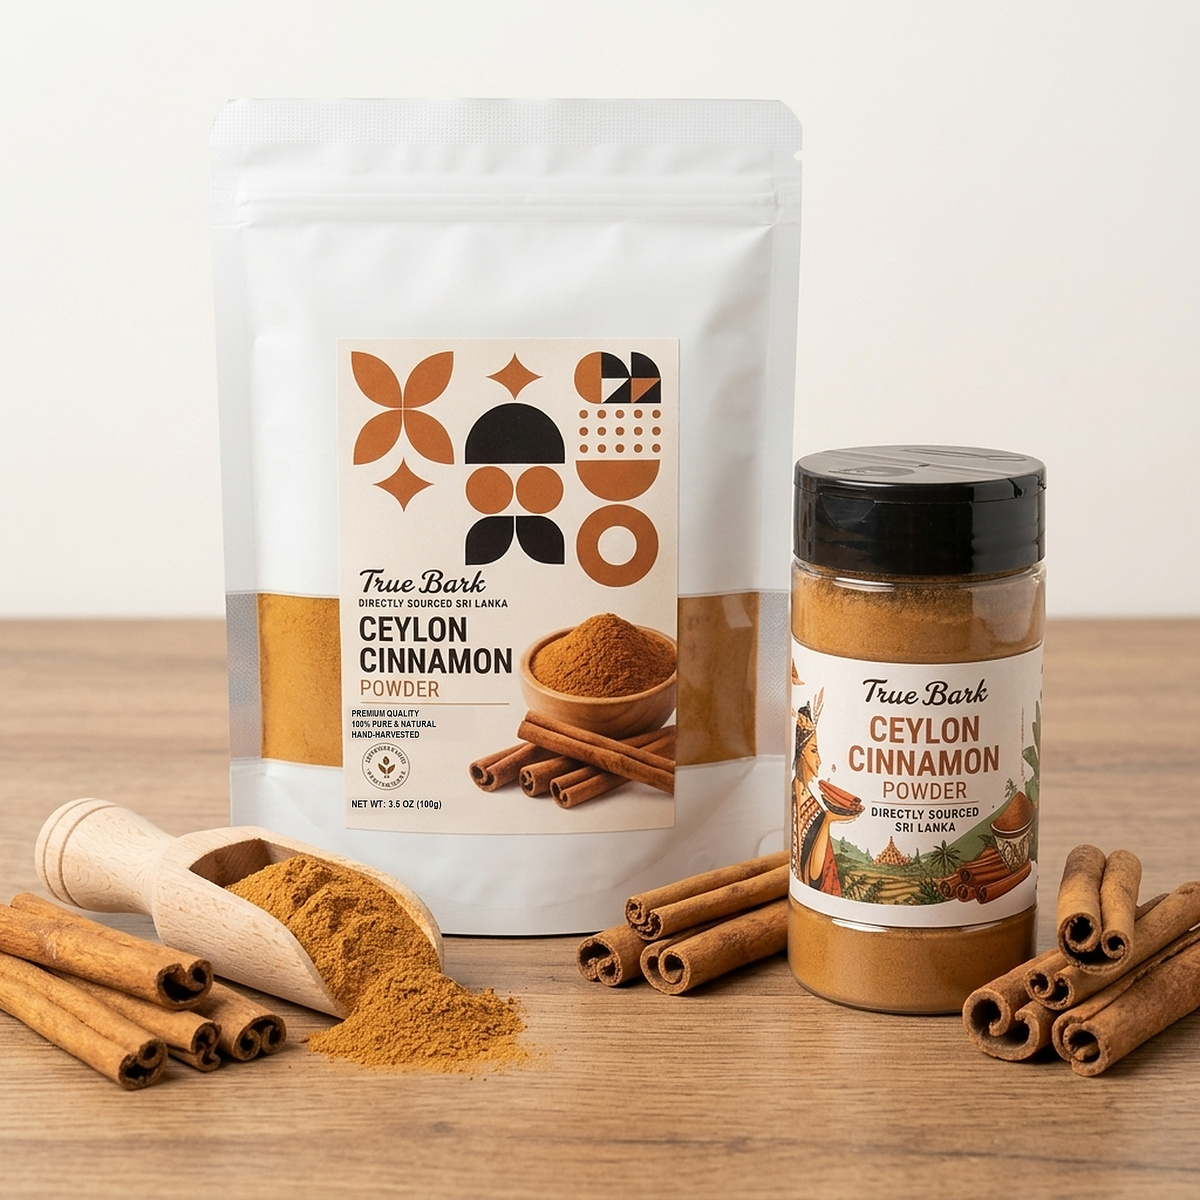
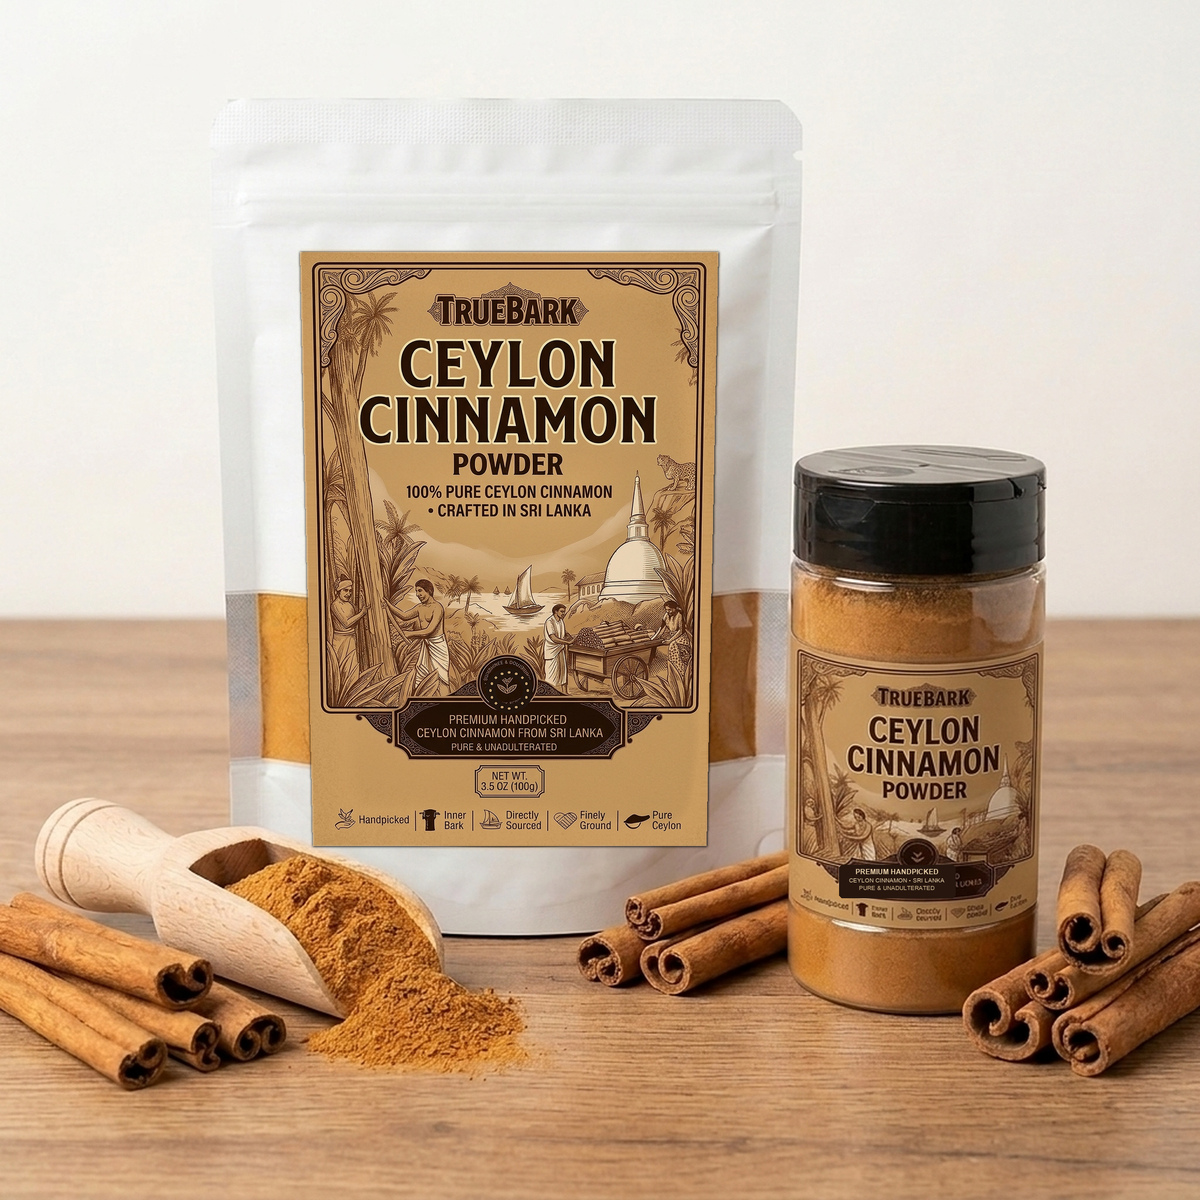
Unify pouch label design and packshots with cylinder tin heritage design (Kraft & Gold editions)

diff --git a/label-studio.html b/label-studio.html
@@ -435,24 +435,41 @@
         </div>
       </article>
 
-      <article class="card" style="grid-column: 1 / -1;">
+      <article class="card">
         <div class="card-header" style="flex-wrap:wrap; gap:0.5rem;">
           <div>
-            <h2 class="card-title">Dark Espresso &amp; Gold Luxury Edition — Pure Ceylon Cinnamon Pouch Stickers (8×12cm Front &amp; 10×14cm Behind)</h2>
-            <span style="font-size:0.75rem; color:var(--text-muted);">Matches Edition A Dark Espresso &amp; Gold Cylinder Tin Aesthetic • 80×120mm Front &amp; 100×140mm Behind</span>
+            <h2 class="card-title">100g Dark Espresso &amp; Gold Edition — Window Pouch &amp; Jar</h2>
+            <span style="font-size:0.75rem; color:var(--text-muted);">Matches Edition A Dark Espresso &amp; Gold Cylinder Tin • 8×12cm Front &amp; 10×14cm Behind</span>
           </div>
           <div style="display:flex; gap:0.4rem; flex-wrap:wrap;">
             <a class="btn btn-primary no-print" style="padding:0.32rem 0.65rem; font-size:0.74rem;" href="assets/labels/Official_Front_Sticker_8x12cm_Ceylon_Cinnamon_Gold.jpg" download>Front Sticker (8×12cm)</a>
             <a class="btn btn-primary no-print" style="padding:0.32rem 0.65rem; font-size:0.74rem;" href="assets/labels/Official_Behind_Sticker_10x14cm_Ceylon_Cinnamon_Gold.jpg" download>Behind Sticker (10×14cm)</a>
-            <a class="btn btn-outline no-print" style="padding:0.32rem 0.65rem; font-size:0.74rem;" href="assets/labels/Flat_Pouch_Label_Ceylon_Cinnamon_Gold_UHD.jpg" download>Front Dieline Sheet</a>
-            <a class="btn btn-outline no-print" style="padding:0.32rem 0.65rem; font-size:0.74rem;" href="assets/labels/Back_Pouch_Label_Ceylon_Cinnamon_Gold_UHD.jpg" download>Behind Dieline Sheet</a>
+            <a class="btn btn-outline no-print" style="padding:0.32rem 0.65rem; font-size:0.74rem;" href="assets/labels/Flat_Pouch_Label_Ceylon_Cinnamon_Gold_UHD.jpg" download>Dieline Sheet</a>
           </div>
         </div>
-        <div class="card-body" style="display:grid; grid-template-columns: repeat(4, 1fr); gap:0.85rem; align-items:center;">
-          <div class="label-preview-wrap"><img src="assets/labels/Official_Front_Sticker_8x12cm_Ceylon_Cinnamon_Gold.jpg" alt="Gold Edition Front Sticker 8x12cm"></div>
-          <div class="label-preview-wrap"><img src="assets/labels/Flat_Pouch_Label_Ceylon_Cinnamon_Gold_UHD.jpg" alt="Gold Edition Front Dieline 8x12cm"></div>
-          <div class="label-preview-wrap"><img src="assets/labels/Official_Behind_Sticker_10x14cm_Ceylon_Cinnamon_Gold.jpg" alt="Gold Edition Behind Sticker 10x14cm"></div>
-          <div class="label-preview-wrap"><img src="assets/labels/Back_Pouch_Label_Ceylon_Cinnamon_Gold_UHD.jpg" alt="Gold Edition Behind Dieline 10x14cm"></div>
+        <div class="card-body" style="display:grid; grid-template-columns: 1fr 1.05fr 1.15fr; gap:0.75rem; align-items:center;">
+          <div class="label-preview-wrap"><img src="assets/labels/Official_Front_Sticker_8x12cm_Ceylon_Cinnamon_Gold.jpg" alt="Gold Edition 100g Front Sticker 8x12cm"></div>
+          <div class="label-preview-wrap"><img src="assets/labels/Official_Behind_Sticker_10x14cm_Ceylon_Cinnamon_Gold.jpg" alt="Gold Edition 100g Behind Sticker 10x14cm"></div>
+          <div class="label-preview-wrap"><img src="assets/images/Ceylon_Cinnamon_Pouch_100g_Gold_Square.jpg" alt="Gold Edition 100g Pouch and Jar Studio Packshot"></div>
+        </div>
+      </article>
+
+      <article class="card">
+        <div class="card-header" style="flex-wrap:wrap; gap:0.5rem;">
+          <div>
+            <h2 class="card-title">50g Dark Espresso &amp; Gold Edition — Window Pouch</h2>
+            <span style="font-size:0.75rem; color:var(--text-muted);">Matches Edition A Dark Espresso &amp; Gold Cylinder Tin • 8×12cm Front &amp; 10×14cm Behind</span>
+          </div>
+          <div style="display:flex; gap:0.4rem; flex-wrap:wrap;">
+            <a class="btn btn-primary no-print" style="padding:0.32rem 0.65rem; font-size:0.74rem;" href="assets/labels/Official_Front_Sticker_8x12cm_Ceylon_Cinnamon_50g_Gold.jpg" download>Front Sticker (8×12cm)</a>
+            <a class="btn btn-primary no-print" style="padding:0.32rem 0.65rem; font-size:0.74rem;" href="assets/labels/Official_Behind_Sticker_10x14cm_Ceylon_Cinnamon_50g_Gold.jpg" download>Behind Sticker (10×14cm)</a>
+            <a class="btn btn-outline no-print" style="padding:0.32rem 0.65rem; font-size:0.74rem;" href="assets/labels/Back_Pouch_Label_Ceylon_Cinnamon_Gold_UHD.jpg" download>Behind Dieline</a>
+          </div>
+        </div>
+        <div class="card-body" style="display:grid; grid-template-columns: 1fr 1.05fr 1.15fr; gap:0.75rem; align-items:center;">
+          <div class="label-preview-wrap"><img src="assets/labels/Official_Front_Sticker_8x12cm_Ceylon_Cinnamon_50g_Gold.jpg" alt="Gold Edition 50g Front Sticker 8x12cm"></div>
+          <div class="label-preview-wrap"><img src="assets/labels/Official_Behind_Sticker_10x14cm_Ceylon_Cinnamon_50g_Gold.jpg" alt="Gold Edition 50g Behind Sticker 10x14cm"></div>
+          <div class="label-preview-wrap"><img src="assets/images/Ceylon_Cinnamon_Pouch_50g_Gold_Square.jpg" alt="Gold Edition 50g Pouch Studio Packshot"></div>
         </div>
       </article>
     </div>

diff --git a/app.js b/app.js
@@ -95,28 +95,30 @@ const PRODUCTS = [
   {
     id: "true-bark-cinnamon-pouch-100g",
     name: "Ceylon Cinnamon Powder — 100g Window Pouch & Jar",
-    subtitle: "100g Stand-Up Pouch (15×24×3cm) | Front 8×12cm & Behind 10×14cm Official Labels",
+    subtitle: "100g Stand-Up Pouch (15×24×3cm) | Unified Heritage Tin-Style Front (8×12cm) & Rear (10×14cm) Labels",
     category: "pouches",
     categoryName: "Ceylon Cinnamon Pouches",
     badge: "100g Pouch & Jar",
     rating: 4.99,
     reviewsCount: 164,
-    description: "100% pure Sri Lankan Alba & C5 Ceylon cinnamon stone-milled into a fine, aromatic powder. Packaged in our 15cm × 24cm × 3cm (100g / 3.5oz) matte stand-up window pouch with official 8×12cm front and 10×14cm rear stickers.",
+    description: "100% pure Sri Lankan Alba & C5 Ceylon cinnamon stone-milled into a fine, aromatic powder. Packaged in our 15cm × 24cm × 3cm (100g / 3.5oz) matte stand-up window pouch featuring the exact Sri Lankan heritage lithography as our 100g Cylinder Tins (8×12cm front & 10×14cm rear stickers).",
     weight: "Net Wt 100g (3.5oz) | 15×24×3cm Pouch",
     coumarin: "< 0.004% (Lab Certified)",
     origin: "Matara & Galle Highlands, Sri Lanka",
     image: "assets/images/Ceylon_Cinnamon_Pouch_100g_Square.jpg",
     gallery: [
       "assets/images/Ceylon_Cinnamon_Pouch_100g_Square.jpg",
-      "assets/images/Ceylon_Cinnamon_Pouch_100g_UHD.jpg",
+      "assets/images/Ceylon_Cinnamon_Pouch_100g_Gold_Square.jpg",
       "assets/labels/Official_Front_Sticker_8x12cm_Ceylon_Cinnamon_100g.jpg",
       "assets/labels/Official_Behind_Sticker_10x14cm_Ceylon_Cinnamon_100g.jpg",
+      "assets/labels/Official_Front_Sticker_8x12cm_Ceylon_Cinnamon_Gold.jpg",
+      "assets/labels/Official_Behind_Sticker_10x14cm_Ceylon_Cinnamon_Gold.jpg",
       "assets/labels/Flat_Pouch_Label_Ceylon_Cinnamon_100g_UHD.jpg",
-      "assets/labels/Back_Pouch_Label_Ceylon_Cinnamon_100g_UHD.jpg",
-      "assets/labels/Official_Front_Sticker_8x12cm_Ceylon_Cinnamon_Gold.jpg"
+      "assets/labels/Back_Pouch_Label_Ceylon_Cinnamon_100g_UHD.jpg"
     ],
     variants: [
-      { id: "cinnamon-pouch-100g", name: "100g Window Pouch (15×24×3cm)", price: 18.00, subPrice: 15.30 },
+      { id: "cinnamon-pouch-100g", name: "100g Window Pouch — Artisan Kraft (15×24×3cm)", price: 18.00, subPrice: 15.30 },
+      { id: "cinnamon-pouch-100g-gold", name: "100g Window Pouch — Dark Gold Edition (15×24×3cm)", price: 18.00, subPrice: 15.30 },
       { id: "cinnamon-pouch-jar-bundle", name: "100g Pouch + Shaker Jar Duo", price: 30.00, subPrice: 25.50 },
       { id: "cinnamon-pouch-200g", name: "2-Pack 100g Pouches (200g)", price: 32.00, subPrice: 27.20 }
     ],
@@ -125,27 +127,30 @@ const PRODUCTS = [
   {
     id: "true-bark-cinnamon-pouch-50g",
     name: "Ceylon Cinnamon Powder — 50g Window Pouch",
-    subtitle: "50g Stand-Up Pouch (12×20×2cm) | Front 8×12cm & Behind 10×14cm Official Labels",
+    subtitle: "50g Stand-Up Pouch (12×20×2cm) | Unified Heritage Tin-Style Front (8×12cm) & Rear (10×14cm) Labels",
     category: "pouches",
     categoryName: "Ceylon Cinnamon Pouches",
     badge: "50g Window Pouch",
     rating: 4.98,
     reviewsCount: 118,
-    description: "Single-origin Sri Lankan Ceylon cinnamon powder sealed in an airtight 12cm × 20cm × 2cm (50g / 1.76oz) resealable stand-up window pouch. Ideal for daily espresso lattes, baking, or refilling your True Bark Cylinder Tin.",
+    description: "Single-origin Sri Lankan Ceylon cinnamon powder sealed in an airtight 12cm × 20cm × 2cm (50g / 1.76oz) resealable stand-up window pouch with our signature Sri Lankan heritage woodcut label design. Ideal for daily espresso lattes, baking, or refilling your True Bark Cylinder Tin.",
     weight: "Net Wt 50g (1.76oz) | 12×20×2cm Pouch",
     coumarin: "< 0.004% (Lab Certified)",
     origin: "Southern Coast, Sri Lanka",
     image: "assets/images/Ceylon_Cinnamon_Pouch_50g_Square.jpg",
     gallery: [
       "assets/images/Ceylon_Cinnamon_Pouch_50g_Square.jpg",
-      "assets/images/Ceylon_Cinnamon_Pouch_50g_UHD.jpg",
+      "assets/images/Ceylon_Cinnamon_Pouch_50g_Gold_Square.jpg",
       "assets/labels/Official_Front_Sticker_8x12cm_Ceylon_Cinnamon_50g.jpg",
       "assets/labels/Official_Behind_Sticker_10x14cm_Ceylon_Cinnamon_50g.jpg",
+      "assets/labels/Official_Front_Sticker_8x12cm_Ceylon_Cinnamon_50g_Gold.jpg",
+      "assets/labels/Official_Behind_Sticker_10x14cm_Ceylon_Cinnamon_50g_Gold.jpg",
       "assets/labels/Flat_Pouch_Label_Ceylon_Cinnamon_50g_UHD.jpg",
       "assets/labels/Back_Pouch_Label_Ceylon_Cinnamon_50g_UHD.jpg"
     ],
     variants: [
-      { id: "cinnamon-pouch-50g", name: "50g Window Pouch (12×20×2cm)", price: 12.00, subPrice: 10.20 },
+      { id: "cinnamon-pouch-50g", name: "50g Window Pouch — Artisan Kraft (12×20×2cm)", price: 12.00, subPrice: 10.20 },
+      { id: "cinnamon-pouch-50g-gold", name: "50g Window Pouch — Dark Gold Edition (12×20×2cm)", price: 12.00, subPrice: 10.20 },
       { id: "cinnamon-pouch-50g-3pack", name: "3-Pack 50g Pouches (150g)", price: 32.00, subPrice: 27.20 }
     ],
     defaultVariantIndex: 0
